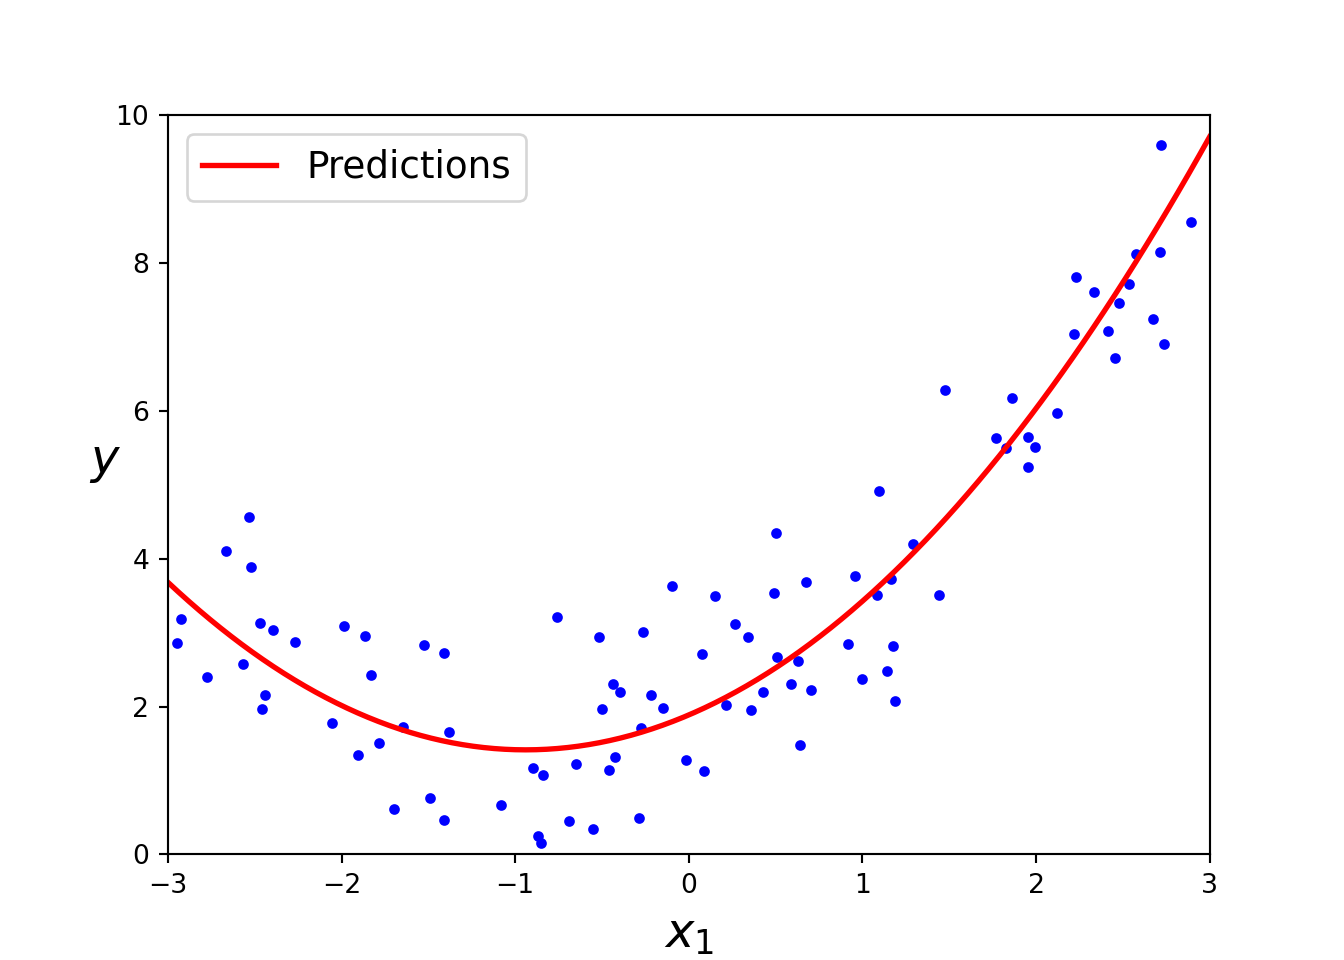
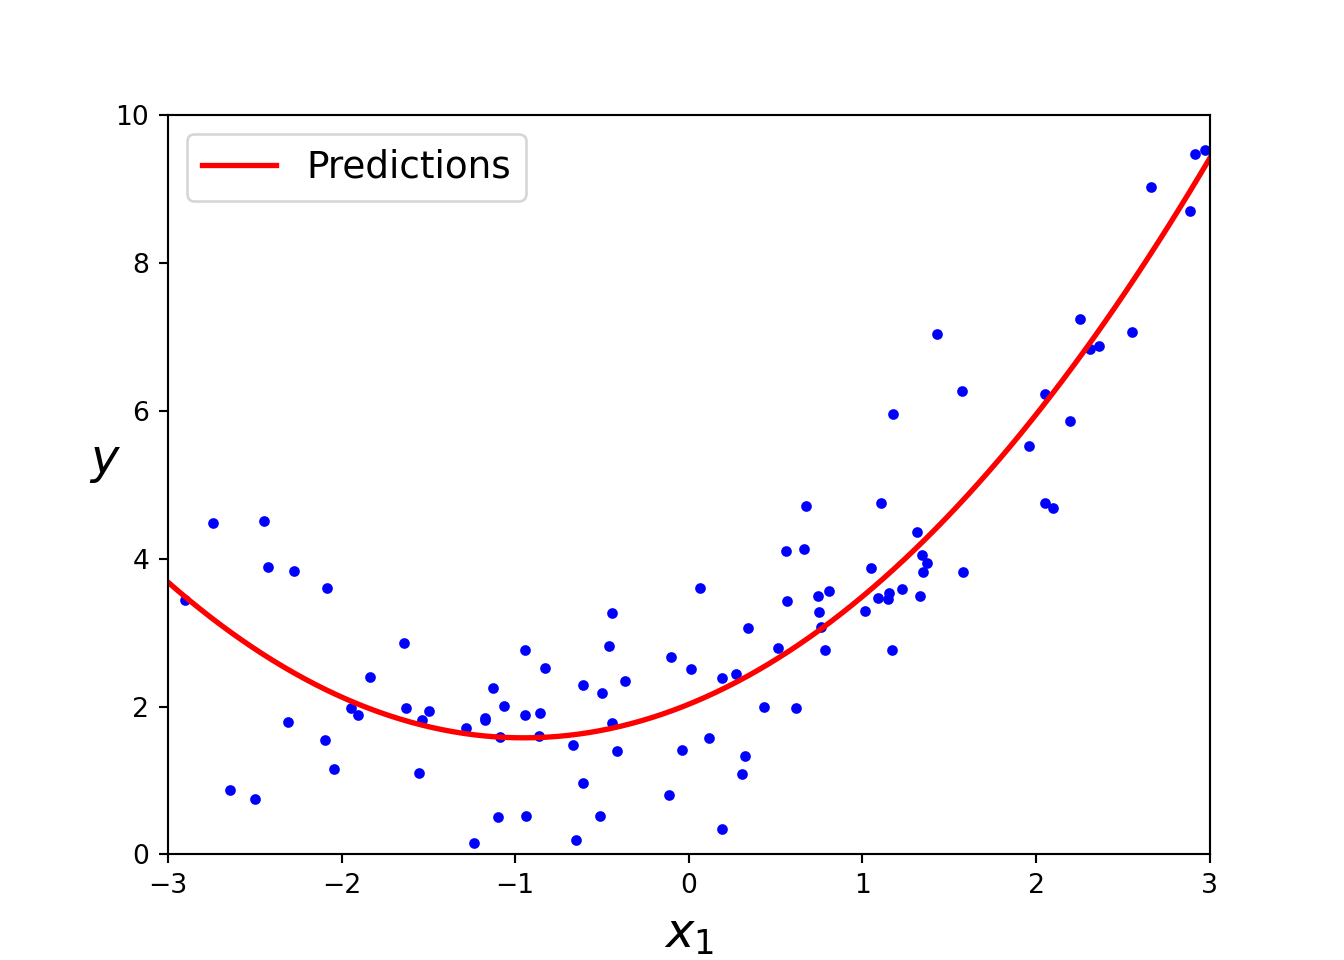
update

diff --git a/content/post/2021-02-08-ch4-hands-on-ml/index.zh-cn.html b/content/post/2021-02-08-ch4-hands-on-ml/index.zh-cn.html
@@ -50,7 +50,7 @@ import matplotlib.pyplot as plt
 x = 2 * np.random.rand(100,1)
 y = 4 + 3 * x + np.random.randn(100,1)
 plt.plot(x, y, &quot;b.&quot;)
-&gt;&gt; [&lt;matplotlib.lines.Line2D object at 0x00000000125F78E0&gt;]
+&gt;&gt; [&lt;matplotlib.lines.Line2D object at 0x00000000612B78E0&gt;]
 plt.xlabel(&quot;$x_1$&quot;, fontsize=18)
 &gt;&gt; Text(0.5, 0, &#39;$x_1$&#39;)
 plt.ylabel(&quot;$y$&quot;, rotation=0, fontsize=18)
@@ -64,20 +64,20 @@ plt.show()</code></pre>
 theta_best = np.linalg.inv(x_b.T.dot(x_b)).dot(x_b.T).dot(y)
 
 theta_best
-&gt;&gt; array([[4.13110864],
-&gt;&gt;        [2.86759098]])</code></pre>
+&gt;&gt; array([[4.04144181],
+&gt;&gt;        [2.93300647]])</code></pre>
 <p><code>np.c_</code>进行的是增加列的操作(R里面的cbind);<code>np.ones((100,1))</code>产生100行1列的矩阵，元素都是1;<code>np.linalg</code>是numpy中线性代数模块;<code>inv</code>是矩阵求逆方法;<code>T</code>是矩阵转置方法;<code>dot</code>是矩阵乘法</p>
 <p>现在我们使用计算出的<span class="math inline">\(\hat \theta\)</span>来预测：</p>
 <pre class="python"><code>x_new = np.array([[0],[2]])
 x_new_b = np.c_[np.ones((2,1)),x_new]
 y_pre = x_new_b.dot(theta_best)
 y_pre
-&gt;&gt; array([[4.13110864],
-&gt;&gt;        [9.86629059]])</code></pre>
+&gt;&gt; array([[4.04144181],
+&gt;&gt;        [9.90745474]])</code></pre>
 <pre class="python"><code>plt.plot(x_new,y_pre,&quot;r-&quot;)
-&gt;&gt; [&lt;matplotlib.lines.Line2D object at 0x000000001312F8B0&gt;]
+&gt;&gt; [&lt;matplotlib.lines.Line2D object at 0x0000000062EBF910&gt;]
 plt.plot(x,y,&quot;b.&quot;)
-&gt;&gt; [&lt;matplotlib.lines.Line2D object at 0x000000001312FD00&gt;]
+&gt;&gt; [&lt;matplotlib.lines.Line2D object at 0x0000000062EBFD60&gt;]
 plt.axis([0,2,0,15])
 &gt;&gt; (0.0, 2.0, 0.0, 15.0)
 plt.show()</code></pre>
@@ -89,10 +89,10 @@ lin_reg = LinearRegression()
 lin_reg.fit(x,y)
 &gt;&gt; LinearRegression()
 lin_reg.intercept_, lin_reg.coef_
-&gt;&gt; (array([4.13110864]), array([[2.86759098]]))
+&gt;&gt; (array([4.04144181]), array([[2.93300647]]))
 lin_reg.predict(x_new)
-&gt;&gt; array([[4.13110864],
-&gt;&gt;        [9.86629059]])</code></pre>
+&gt;&gt; array([[4.04144181],
+&gt;&gt;        [9.90745474]])</code></pre>
 <p><code>LinearRegression</code>类是基于<code>scipy.linalg.lstsq</code>函数的，该函数是通过SVD进行计算pseudoinverse(<span class="math inline">\(X^+\)</span>)然后再计算<span class="math inline">\(\hat \theta = X^+y\)</span>,这样计算有两个好处：pseudoinverse的计算比直接计算矩阵的逆效率更高(why?)；当<span class="math inline">\(X^TX\)</span>不可逆的时候Normal Equation是无法计算的，而pseudoinverse是可以计算的</p>
 <p>计算Normal Equation的计算复杂度是比较大的(求矩阵的逆的计算复杂度为<span class="math inline">\(O(n^{2.4})\)</span>~<span class="math inline">\(O(n^{3})\)</span>,使用SVD方法的计算复杂度为<span class="math inline">\(O(n^2)\)</span>)</p>
 </div>
@@ -170,11 +170,12 @@ sgd_reg.fit(x,y.ravel())##ravel将列向量转为一维向量
 <p>可以使用线性模型来拟合非线性的数据，一个简单的做法就是将每个特征加上幂次作为新的特征，然后对这些拓展的特征进行训练线性模型，这个技术叫做<strong>多项式回归(polynomial regression)</strong></p>
 <pre class="python"><code>##模拟数据
 m = 100
+np.random.seed(123)
 x = 6 * np.random.rand(m,1) - 3 ##均匀分布
 y = 0.5 * x**2 + x + 2 + np.random.randn(m,1)##正态分布
 
 plt.plot(x, y, &quot;b.&quot;)
-&gt;&gt; [&lt;matplotlib.lines.Line2D object at 0x0000000064F1D130&gt;]
+&gt;&gt; [&lt;matplotlib.lines.Line2D object at 0x00000000644FD2E0&gt;]
 plt.xlabel(&quot;$x_1$&quot;, fontsize=18)
 &gt;&gt; Text(0.5, 0, &#39;$x_1$&#39;)
 plt.ylabel(&quot;$y$&quot;, rotation=0, fontsize=18)
@@ -189,35 +190,128 @@ poly_features = PolynomialFeatures(degree=2,include_bias=False)
 x_poly = poly_features.fit_transform(x)
 
 x[0]
-&gt;&gt; array([-1.52505781])
+&gt;&gt; array([1.17881511])
 x_poly[0]
-&gt;&gt; array([-1.52505781,  2.32580131])</code></pre>
+&gt;&gt; array([1.17881511, 1.38960507])</code></pre>
 <p>然后重新训练模型：</p>
 <pre class="python"><code>lin_reg = LinearRegression()
 lin_reg.fit(x_poly,y)
 &gt;&gt; LinearRegression()
 lin_reg.intercept_, lin_reg.coef_
-&gt;&gt; (array([1.88676222]), array([[1.00437321, 0.53404555]]))</code></pre>
+&gt;&gt; (array([2.03146145]), array([[0.95505451, 0.50182851]]))</code></pre>
 <p>预测：</p>
 <pre class="python"><code>x_new=np.linspace(-3, 3, 100).reshape(100, 1)
 x_new_poly = poly_features.transform(x_new)
 y_new = lin_reg.predict(x_new_poly)
 plt.plot(x, y, &quot;b.&quot;)
-&gt;&gt; [&lt;matplotlib.lines.Line2D object at 0x0000000064FDC250&gt;]
+&gt;&gt; [&lt;matplotlib.lines.Line2D object at 0x00000000645CB520&gt;]
 plt.plot(x_new, y_new, &quot;r-&quot;, linewidth=2, label=&quot;Predictions&quot;)
-&gt;&gt; [&lt;matplotlib.lines.Line2D object at 0x0000000064FDC640&gt;]
+&gt;&gt; [&lt;matplotlib.lines.Line2D object at 0x00000000645CB910&gt;]
 plt.xlabel(&quot;$x_1$&quot;, fontsize=18)
 &gt;&gt; Text(0.5, 0, &#39;$x_1$&#39;)
 plt.ylabel(&quot;$y$&quot;, rotation=0, fontsize=18)
 &gt;&gt; Text(0, 0.5, &#39;$y$&#39;)
 plt.legend(loc=&quot;upper left&quot;, fontsize=14)
-&gt;&gt; &lt;matplotlib.legend.Legend object at 0x0000000064FDCA60&gt;
+&gt;&gt; &lt;matplotlib.legend.Legend object at 0x00000000645CBD30&gt;
 plt.axis([-3, 3, 0, 10])
 &gt;&gt; (-3.0, 3.0, 0.0, 10.0)
 plt.show()</code></pre>
 <p><img src="/post/2021-02-08-ch4-hands-on-ml/index.zh-cn_files/figure-html/unnamed-chunk-1-7.png" width="672" /></p>
-<p>需要注意的是：<code>PolynomialFeatures(degree=d)</code>会将原来的n个特征变成<span class="math inline">\(\frac{(n+d)!}{d!n!}\)</span>个特征；比如有两个特征a,b,经过自由度为3的PolynomialFeatures转化后就有10个特征(包括1)</p>
+<p>需要注意的是：<code>PolynomialFeatures(degree=d)</code>会将原来的n个特征变成<span class="math inline">\(\frac{(n+d)!}{d!n!}\)</span>个特征；比如有两个特征a,b,经过自由度为3的PolynomialFeatures转化后就有10个特征(包括1),要注意特征爆炸的问题</p>
 </div>
 <div id="学习曲线" class="section level2">
 <h2>学习曲线</h2>
+<p>使用高自由度的多项式回归模型可能会在训练集上过拟合，然而简单的线性模型可能是欠拟合的，那么我们该怎样决定模型的复杂程度或者说判断模型是过拟合还是欠拟合呢？</p>
+<p>在第二章中，使用了交叉验证的方法来估计模型的泛化能力；如果一个模型在训练集上表现的比较好但是依据交叉验证的指标，其泛化能力比较差(在验证集上表现不好)，那么这个模型就是过拟合；如果一个模型在训练集和验证集上表现都不好，那么这个模型是欠拟合的</p>
+<p>另外一个方法就是检查<strong>学习曲线</strong>(learning curves),<strong>学习曲线展示了模型在训练集和验证集上的表现和训练集大小或者训练的迭代次数之间的关系</strong>;要画这个图，需要在不同大小的训练集的子集上训练模型，得到模型的表现指标</p>
+<p>我们先来画一个简单线性回归的学习曲线：</p>
+<pre class="python"><code>from sklearn.metrics import mean_squared_error
+from sklearn.model_selection import train_test_split
+
+def plot_learning_curves(model,x,y):
+  x_train,x_val,y_train,y_val = train_test_split(x,y,test_size=0.2)
+  train_errors,val_errors = [],[]
+  for m in range(1,len(x_train)):
+    model.fit(x_train[:m],y_train[:m])
+    y_train_predict = model.predict(x_train[:m])
+    y_val_predict = model.predict(x_val)
+    train_errors.append(mean_squared_error(y_train[:m],y_train_predict))
+    val_errors.append(mean_squared_error(y_val,y_val_predict))
+  
+  plt.plot(np.sqrt(train_errors),&quot;r-+&quot;,linewidth=2,label=&quot;train&quot;)
+  plt.plot(np.sqrt(val_errors), &quot;b-&quot;, linewidth=3, label=&quot;val&quot;)
+  plt.legend(loc=&quot;upper right&quot;, fontsize=14)  
+  plt.xlabel(&quot;Training set size&quot;, fontsize=14)
+  plt.ylabel(&quot;RMSE&quot;, fontsize=14) 
+    
+    
+lin_reg = LinearRegression()
+plot_learning_curves(lin_reg,x,y)
+plt.axis([0, 80, 0, 3]) 
+&gt;&gt; (0.0, 80.0, 0.0, 3.0)
+plt.show()        </code></pre>
+<p><img src="/post/2021-02-08-ch4-hands-on-ml/index.zh-cn_files/figure-html/unnamed-chunk-1-9.png" width="672" /></p>
+<p>当只有一两个训练数据的时候，模型拟合的非常好，同时由于训练集较少，泛化能力较弱所以在验证集中表现不好；当训练集逐渐增大，一方面由于数据的噪音，另一方面因为模型是线性的，而数据不是线性的，所以模型在训练集上的误差上升，但是由于训练集增多，泛化能力会一定程度的上升，所以在验证集上的误差降低，最终两者都到达一个平台</p>
+<p>这个学习曲线是一个典型的欠拟合的模型的特征：<strong>两个曲线都到达一个平台；并且两者比较接近，都比较高</strong></p>
+<p>接下来看一下有10个自由度的多项式回归模型的学习曲线：</p>
+<pre class="python"><code>from sklearn.pipeline import Pipeline
+
+polynomial_regression = Pipeline([
+        (&quot;poly_features&quot;, PolynomialFeatures(degree=20, include_bias=False)),
+        (&quot;lin_reg&quot;, LinearRegression()),
+    ])
+
+plot_learning_curves(polynomial_regression, x, y)
+plt.axis([0, 80, 0, 3])
+&gt;&gt; (0.0, 80.0, 0.0, 3.0)
+plt.show()           </code></pre>
+<p><img src="/post/2021-02-08-ch4-hands-on-ml/index.zh-cn_files/figure-html/unnamed-chunk-1-11.png" width="672" /></p>
+<p>这个学习曲线也有两个特征：</p>
+<ul>
+<li>在训练集上的误差比上面的线性回归模型要低</li>
+<li>在两个曲线间有一个gap，这意味着模型在训练集上比在验证集上的表现要好得多，而这是<strong>过拟合</strong>的特征(可能需要收集更多的数据)</li>
+</ul>
+</div>
+<div id="biasvariance-trade-off" class="section level2">
+<h2>BIAS/VARIANCE TRADE-OFF</h2>
+</div>
+<div id="正则化线性模型" class="section level2">
+<h2>正则化线性模型</h2>
+<p>在第一章和第二章已经讲过了减少过拟合风险的方法之一就是正则化模型(也就是约束模型)；对于多项式模型最简单的正则化方法就是减少模型的自由度；对于线性模型，正则化一般是通过约束模型的权重来实现，常用的有3种方法：岭回归(Ridge Regression),Lasso回归,弹性网络(Elastic Net)</p>
+<div id="岭回归" class="section level3">
+<h3>岭回归</h3>
+<p>岭回归就是在线性回归的损失函数后面加上了一个正则化的项:</p>
+<p><span class="math display">\[
+J(\theta) = MSE(\theta) + \alpha \frac{1}{2}\sum_{i=1}^{n}\theta_i^2
+\]</span>
+加上这一项之后就会使得模型在训练的过程中尽量保持特征权重(<span class="math inline">\(\theta\)</span>)比较小<br />
+注意：在岭回归等正则化的模型中，训练时使用的损失函数与计算模型性能时用的指标不一定相同(在分类模型中更是如此)；另外在训练正则化的模型时，对特征一定要归一化</p>
+<p>对于岭回归，和线性回归一样，可以使用normal equation的方法或者梯度下降的方法求解：</p>
+<pre class="python"><code>##Normal equation
+from sklearn.linear_model import Ridge
+
+ridge_reg = Ridge(alpha=1,solver=&quot;cholesky&quot;)
+ridge_reg.fit(x,y)
+&gt;&gt; Ridge(alpha=1, solver=&#39;cholesky&#39;)
+ridge_reg.predict([[1.5]])
+&gt;&gt; array([[4.58785445]])</code></pre>
+<pre class="python"><code>##梯度下降
+sgd_reg = SGDRegressor(penalty=&quot;l2&quot;)
+sgd_reg.fit(x,y.ravel())
+&gt;&gt; SGDRegressor()
+sgd_reg.predict([[1.5]])
+&gt;&gt; array([4.56218836])</code></pre>
+<p>“l2”指的是L2范数(norm);<span class="math inline">\(L_p\)</span>范数的定义为：
+<span class="math display">\[
+||x||_p = \sqrt[p]{\sum_i |x_i|^p}
+\]</span>
+因此L2范数为：
+<span class="math display">\[
+||x||_2 = \sqrt[2]{\sum_i |x_i|^2}
+\]</span></p>
+<p>所以岭回归的正则化项就是<span class="math inline">\(\alpha 1/2(||w||_2)^2\)</span>,w是<span class="math inline">\(\theta_1\)</span>到<span class="math inline">\(\theta_n\)</span>的参数向量(特征权重)</p>
+</div>
+<div id="lasso回归" class="section level3">
+<h3>Lasso回归</h3>
+</div>
 </div>
